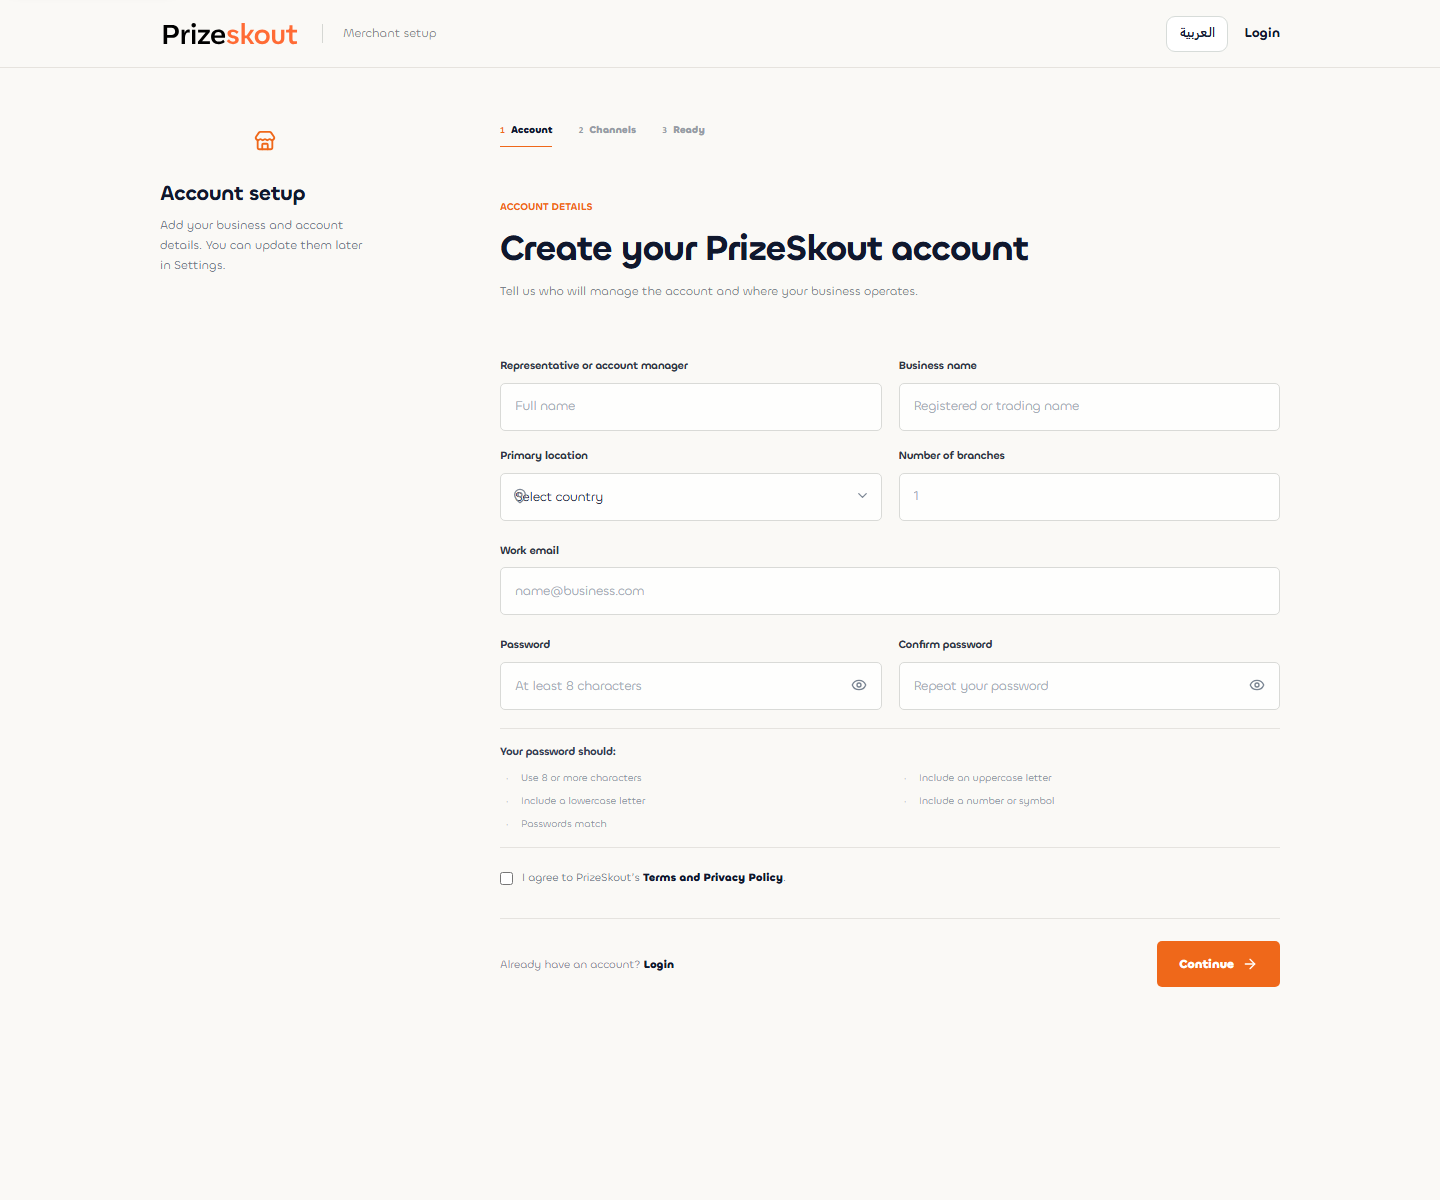
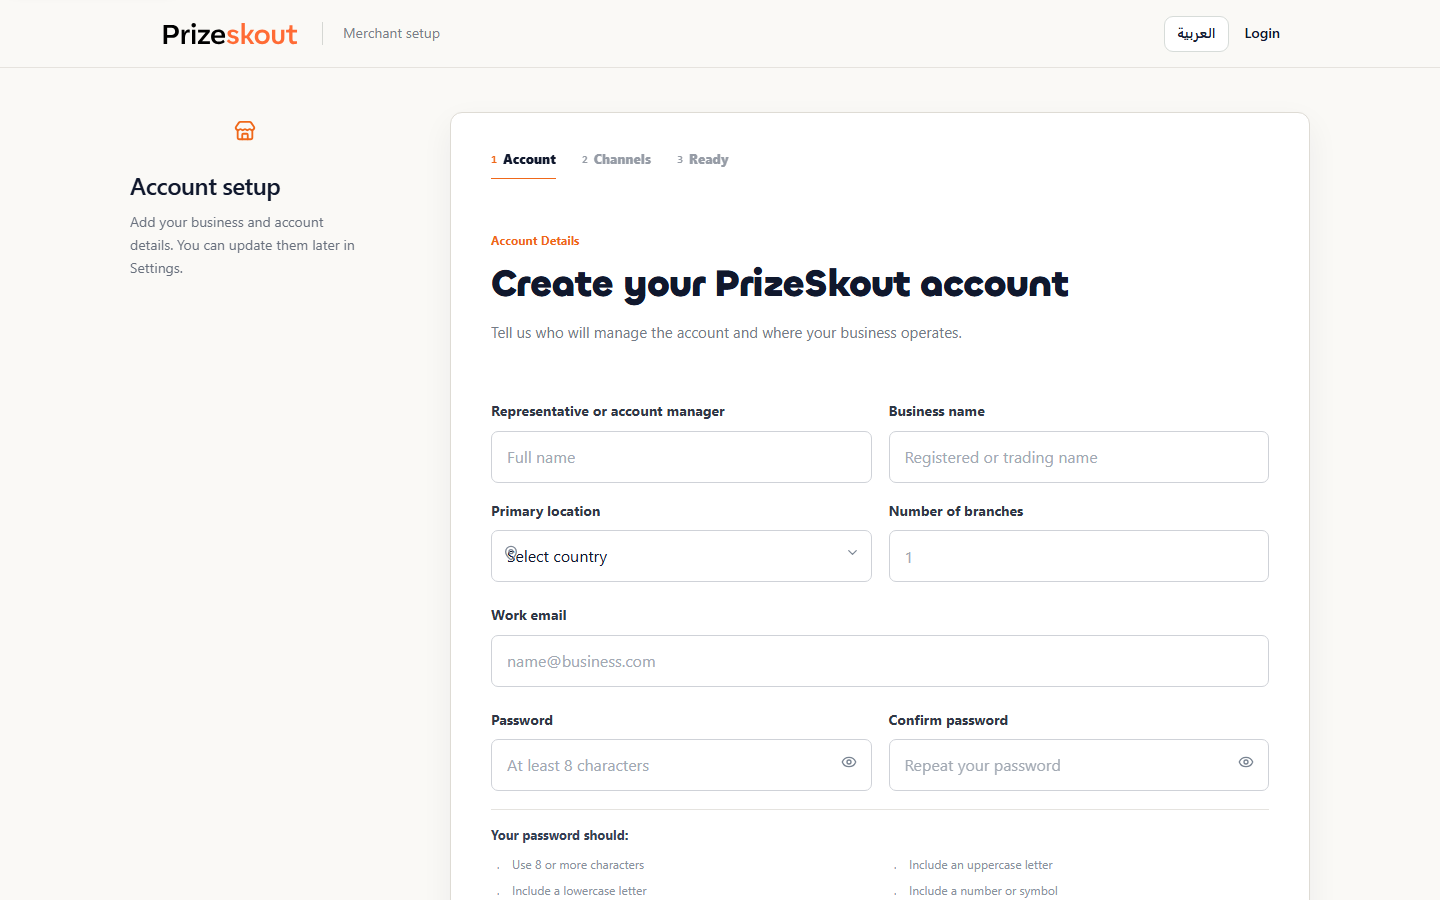
fix: use current product screens on landing preview

diff --git a/src/components/landing/NewLandingPage.tsx b/src/components/landing/NewLandingPage.tsx
@@ -1,10 +1,13 @@
 import { useState } from "react";
-import { ArrowRight, Check, CircleCheck, Menu, ShieldCheck, X } from "lucide-react";
+import { ArrowRight, Check, Menu, X } from "lucide-react";
 import logo from "@/assets/logo-light.svg";
 import qstpLogo from "@/assets/qstp-logo-colored.png";
 import dashboardDesktop from "@/assets/landing/dashboard-overview.png";
 import dashboardMobile from "@/assets/landing/dashboard-mobile.png";
 import onboardingDesktop from "@/assets/landing/merchant-onboarding.png";
+import defendLoopDesktop from "@/assets/landing/defend-loop.png";
+import evidenceHistoryDesktop from "@/assets/landing/evidence-history.png";
+import storeManagerDesktop from "@/assets/landing/ai-store-manager.png";
 import "./NewLandingPage.css";
 
 const QFC_LOGO = "/qfc-logo.svg";
@@ -167,11 +170,6 @@ export function NewLandingPage() {
             className="nlp-hero-media"
             aria-label="PrizeSkout dashboard shown on desktop and mobile"
           >
-            <div className="nlp-hero-card nlp-hero-card-back" aria-hidden="true">
-              <span>True Margin Intelligence</span>
-              <b>18.7%</b>
-              <small>True margin</small>
-            </div>
             <figure className="nlp-screen nlp-screen-desktop">
               <figcaption>
                 <span>
@@ -233,45 +231,17 @@ export function NewLandingPage() {
             text="Watch PrizeSkout build one trusted order from six live sources."
           />
 
-          <div className="nlp-proof-grid">
-            <article className="nlp-proof-copy">
-              <span>Order 8745123 · Talabat</span>
-              <div className="nlp-proof-value">
-                <small>True profit per order</small>
-                <b>QAR 4.18</b>
-              </div>
-              <ul>
-                {[
-                  "Commission agreement §4.2",
-                  "Payment settlement",
-                  "Delivery invoice",
-                  "Campaign PROMO-218",
-                  "Payout statement #815",
-                  "Catalog cost record",
-                ].map((item) => (
-                  <li key={item}>
-                    <Check aria-hidden="true" /> {item}
-                  </li>
-                ))}
-              </ul>
-              <p>
-                <ShieldCheck aria-hidden="true" /> Six source records retain their original
-                evidence.
-              </p>
-            </article>
-
-            <figure className="nlp-product-window nlp-product-window-wide">
-              <figcaption>
-                <span>PrizeSkout dashboard</span>
-                <b>Merchant overview</b>
-              </figcaption>
-              <img
-                src={dashboardDesktop}
-                alt="PrizeSkout merchant overview with pricing, market, and channel navigation"
-                loading="lazy"
-              />
-            </figure>
-          </div>
+          <figure className="nlp-product-window nlp-product-window-featured">
+            <figcaption>
+              <span>Current product · Evidence &amp; History</span>
+              <b>Permanent evidence record</b>
+            </figcaption>
+            <img
+              src={evidenceHistoryDesktop}
+              alt="Current PrizeSkout Evidence and History workspace"
+              loading="lazy"
+            />
+          </figure>
         </section>
 
         <section className="nlp-section nlp-defend" aria-labelledby="defend-loop-title">
@@ -283,44 +253,17 @@ export function NewLandingPage() {
             text="PrizeSkout detects risk, predicts the result, checks your rules, requests approval, and records proof."
           />
 
-          <div className="nlp-decision-layout">
-            <div className="nlp-decision-track" aria-label="Defend Loop decision path">
-              {[
-                ["14:32:08", "Risk detected", "Talabat promotion signal"],
-                ["14:32:08", "Impact calculated", "Projected margin 12.6%"],
-                ["14:32:09", "Rule matched", "PS-MARGIN-018"],
-                ["14:32:11", "Approval received", "Fahad · 15% cap"],
-                ["14:32:12", "Proof recorded", "Decision D-8745123"],
-              ].map(([time, title, detail], index) => (
-                <article key={title}>
-                  <time>{time}</time>
-                  <i>{String(index + 1).padStart(2, "0")}</i>
-                  <div>
-                    <b>{title}</b>
-                    <span>{detail}</span>
-                  </div>
-                </article>
-              ))}
-            </div>
-            <article className="nlp-decision-output">
-              <span>Active decision · Talabat</span>
-              <h3>Weekend promotion exceeds the 18% margin floor.</h3>
-              <p>QAR 21,900 in margin protection was recorded.</p>
-              <dl>
-                <div>
-                  <dt>Approved cap</dt>
-                  <dd>15%</dd>
-                </div>
-                <div>
-                  <dt>Evidence record</dt>
-                  <dd>D-8745123</dd>
-                </div>
-              </dl>
-              <footer>
-                <CircleCheck aria-hidden="true" /> Outcome recorded
-              </footer>
-            </article>
-          </div>
+          <figure className="nlp-product-window nlp-product-window-featured">
+            <figcaption>
+              <span>Current product · Defend Loop</span>
+              <b>Margin Policy Engine</b>
+            </figcaption>
+            <img
+              src={defendLoopDesktop}
+              alt="Current PrizeSkout Defend Loop and Margin Policy Engine workspace"
+              loading="lazy"
+            />
+          </figure>
         </section>
 
         <section className="nlp-section nlp-product" id="product" aria-labelledby="product-title">
@@ -335,44 +278,42 @@ export function NewLandingPage() {
           <div className="nlp-product-gallery">
             <figure className="nlp-product-window nlp-gallery-primary">
               <figcaption>
-                <span>01 · Desktop</span>
-                <b>PrizeSkout merchant dashboard</b>
+                <span>01 · AI Store Manager</span>
+                <b>Merchant-controlled operations</b>
                 <a href="/access">
                   Open dashboard <ArrowRight aria-hidden="true" />
                 </a>
               </figcaption>
               <img
-                src={dashboardDesktop}
-                alt="Actual PrizeSkout desktop dashboard overview"
+                src={storeManagerDesktop}
+                alt="Current PrizeSkout AI Store Manager workspace"
                 loading="lazy"
               />
             </figure>
 
-            <figure className="nlp-product-window nlp-gallery-mobile">
+            <figure className="nlp-product-window nlp-gallery-workflow">
               <figcaption>
-                <span>02 · Mobile</span>
-                <b>The same operator view on mobile</b>
+                <span>02 · Defend Loop</span>
+                <b>Merchant-controlled margin policy</b>
               </figcaption>
-              <div>
-                <img
-                  src={dashboardMobile}
-                  alt="Actual PrizeSkout mobile dashboard overview"
-                  loading="lazy"
-                />
-              </div>
+              <img
+                src={defendLoopDesktop}
+                alt="Current PrizeSkout Defend Loop workspace"
+                loading="lazy"
+              />
             </figure>
 
-            <figure className="nlp-product-window nlp-gallery-onboarding">
+            <figure className="nlp-product-window nlp-gallery-workflow">
               <figcaption>
-                <span>03 · Merchant setup</span>
-                <b>Connect the business and channels</b>
-                <a href="/onboarding">
-                  Start setup <ArrowRight aria-hidden="true" />
+                <span>03 · Evidence &amp; History</span>
+                <b>Permanent evidence record</b>
+                <a href="/access">
+                  Open dashboard <ArrowRight aria-hidden="true" />
                 </a>
               </figcaption>
               <img
-                src={onboardingDesktop}
-                alt="Actual PrizeSkout merchant account setup page"
+                src={evidenceHistoryDesktop}
+                alt="Current PrizeSkout Evidence and History workspace"
                 loading="lazy"
               />
             </figure>

diff --git a/src/components/landing/NewLandingPage.css b/src/components/landing/NewLandingPage.css
@@ -375,7 +375,7 @@
 .nlp-screen-desktop {
   position: absolute;
   z-index: 2;
-  inset-block-start: 124px;
+  inset-block-start: 72px;
   inset-inline-start: 0;
   width: min(720px, 100%);
 }
@@ -604,6 +604,12 @@
   object-fit: cover;
   object-position: top left;
 }
+.nlp-product-window-featured img {
+  display: block;
+  aspect-ratio: 16 / 10;
+  object-fit: cover;
+  object-position: top left;
+}
 
 .nlp-defend {
   width: min(1440px, calc(100% - clamp(24px, 4vw, 64px)));
@@ -716,8 +722,7 @@
 
 .nlp-product-gallery {
   display: grid;
-  grid-template-columns: minmax(0, 1.45fr) minmax(260px, 0.55fr);
-  grid-template-rows: auto auto;
+  grid-template-columns: repeat(2, minmax(0, 1fr));
   gap: 20px;
 }
 .nlp-product-gallery figcaption {
@@ -743,34 +748,19 @@
   height: 14px;
 }
 .nlp-gallery-primary {
-  grid-row: 1 / span 2;
+  grid-column: 1 / -1;
 }
 .nlp-gallery-primary > img {
-  min-height: 720px;
-  height: 100%;
+  display: block;
+  aspect-ratio: 16 / 10;
   object-fit: cover;
   object-position: top left;
 }
-.nlp-gallery-mobile {
-  background: var(--nlp-paper-soft);
-}
-.nlp-gallery-mobile > div {
-  height: 410px;
-  padding: 24px 38px 0;
-  overflow: hidden;
-}
-.nlp-gallery-mobile img {
-  width: 100%;
-  max-width: 240px;
-  margin-inline: auto;
-  border: 5px solid var(--nlp-ink);
-  border-bottom: 0;
-  border-radius: 26px 26px 0 0;
-}
-.nlp-gallery-onboarding > img {
-  height: 360px;
+.nlp-gallery-workflow > img {
+  display: block;
+  aspect-ratio: 16 / 10;
   object-fit: cover;
-  object-position: top center;
+  object-position: top left;
 }
 
 .nlp-onboarding-layout {
@@ -1184,16 +1174,10 @@
     grid-template-rows: auto;
   }
   .nlp-gallery-primary {
-    grid-row: auto;
+    grid-column: auto;
   }
   .nlp-gallery-primary > img {
-    min-height: 540px;
-  }
-  .nlp-gallery-mobile > div {
-    height: 500px;
-  }
-  .nlp-gallery-mobile img {
-    max-width: 290px;
+    min-height: 0;
   }
   .nlp-plan-grid {
     grid-template-columns: 1fr;
@@ -1339,10 +1323,7 @@
     margin-inline-start: auto;
   }
   .nlp-gallery-primary > img {
-    min-height: 430px;
-  }
-  .nlp-gallery-mobile > div {
-    height: 410px;
+    min-height: 0;
   }
   .nlp-onboarding-layout figure img {
     min-height: 430px;
